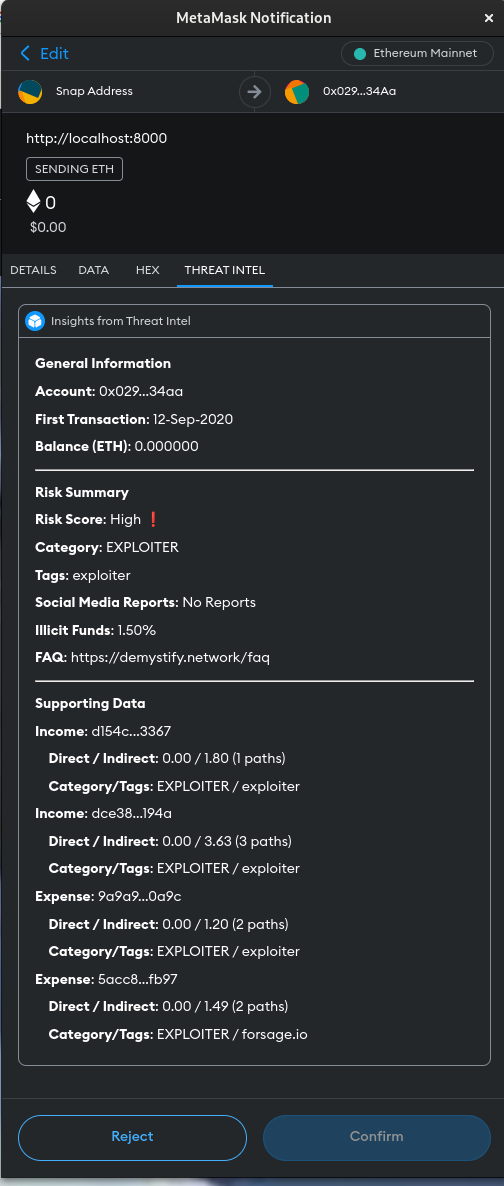
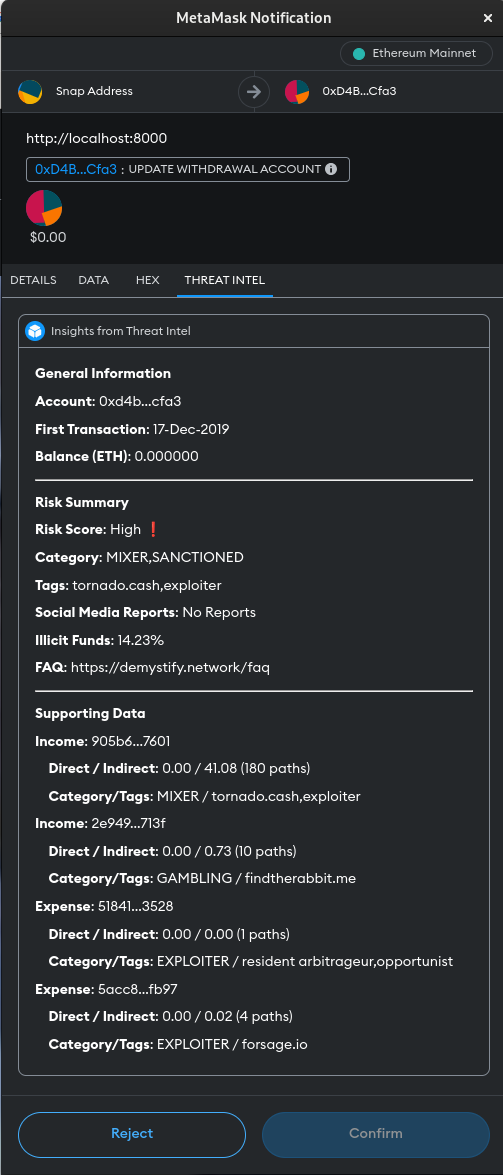
Updated snap screenshots

diff --git a/README.md b/README.md
@@ -10,12 +10,12 @@ This repository houses the Threat Intel [Metamask Snap](https://metamask.io/snap
 - Now you need to install the Threat Intell snap. Once you have installed the Threat Intel Snap, when you try to transact on Ethereum blockchain with some address using Metamask, Threat Intel snap will also appear and get the intel about the address with which you are about to transact.
 - Below are few snapshots of the snap.
 
-|                      |                        |
-| -------------------- | ---------------------- |
-| ![Low Risk](low.png) | ![High Risk](high.png) |
+|                        |                      |
+| ---------------------- | -------------------- |
+| ![High Risk](high.png) | ![Low Risk](low.png) |
 
-- So as you can see in the image on left, the address OFAC blocked, involved in mixing funds etc and has considerbaly high number of illicit funds resulting in High risk score.
-- Where as image on right, you can see address has Low risk score since has no illicit funds, there are no social media reports and few other parameters as applied by the Risk Scoring APIs of Demystify.Network.
+- So as you can see in the image on left, the address Sanctioned (for example OFAC blocked), involved in mixing funds etc and has considerbaly high number of illicit funds resulting in High risk score.
+- Where as image on right, you can see address has Low risk score since has low illicit funds, there are no social media reports and few other parameters as applied by the Risk Scoring APIs of Demystify.Network.
 - You can also get more insights by examining the Income and Expense transactions.
 
 ## Published Package
